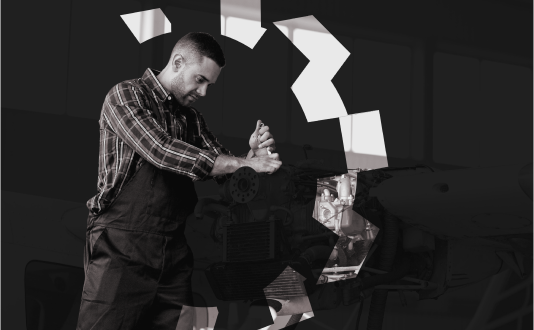
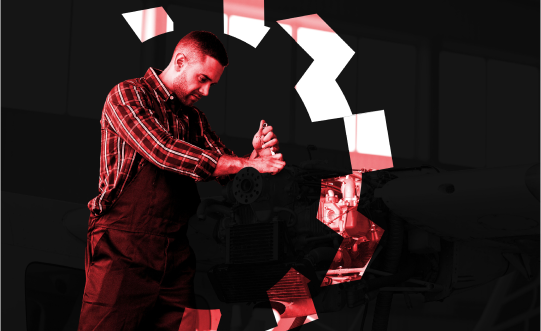
fixed first land

diff --git a/mohovik/index.html b/mohovik/index.html
@@ -79,9 +79,9 @@
 
 	<section class="firstscroll">
 		<div class="globalCont">
-			<div class="firstscroll__subTitle">
+			<!-- <div class="firstscroll__subTitle">
 				<p>Маховик — массивное вращающееся колесо, использующееся в качестве накопителя кинетической энергии.</p>
-			</div>
+			</div> -->
 			<!-- /.subTitle -->
 			<div class="firstscroll__title">
 				<h1>Ремонт спецтехники любой сложности</h1>
@@ -108,10 +108,10 @@
 					</div>
 					<!-- /.about__cont-items-title -->
 					<div class="about__cont-items-img">
-						<img src="img/a01.png" alt="Ремонт" data-aos="zoom-in" data-aos-duration="1500">
+						<img src="img/a01.png" alt="Ремонт" >
 					</div>
 					<!-- /.about__cont-items-img -->
-					<div class="about__cont-items-desc">
+					<div class="about__cont-items-desc" data-aos="zoom-in" data-aos-duration="1500">
 						<p>Качественный ремонт с гарантией карьерной техники и спецтехники Качественный ремонт с гарантией карьерной техники и спецтехники Качественный ремонт с гарантией карьерной техники и спецтехники...</p>
 					</div>
 					<!-- /.about__cont-items-desc -->
@@ -127,10 +127,10 @@
 					</div>
 					<!-- /.about__cont-items-title -->
 					<div class="about__cont-items-img">
-						<img src="img/a02.png" alt="Ремонт" data-aos="zoom-in" data-aos-duration="1500">
+						<img src="img/a02.png" alt="Ремонт" >
 					</div>
 					<!-- /.about__cont-items-img -->
-					<div class="about__cont-items-desc">
+					<div class="about__cont-items-desc" data-aos="zoom-in" data-aos-duration="1500">
 						<p>Компания “Маховик” реализует технику для специальных и карьерных работ. Техника от ведущих производителей, положительно зарекомендовавшая себя в течение многих лет на мировом рынке...</p>
 					</div>
 					<!-- /.about__cont-items-desc -->
@@ -146,10 +146,10 @@
 					</div>
 					<!-- /.about__cont-items-title -->
 					<div class="about__cont-items-img">
-						<img src="img/a03.png" alt="Ремонт" data-aos="zoom-in" data-aos-duration="1500">
+						<img src="img/a03.png" alt="Ремонт">
 					</div>
 					<!-- /.about__cont-items-img -->
-					<div class="about__cont-items-desc">
+					<div class="about__cont-items-desc" data-aos="zoom-in" data-aos-duration="1500">
 						<p>Склад запчастей нашей компании постоянно пополняется и обновляется. Наши специалисты постоянно “держат руку на пульсе” и поэтому качество наших деталей и запасных частей никогда не подведёт и не разочарует... </p>
 					</div>
 					<!-- /.about__cont-items-desc -->
@@ -169,6 +169,7 @@
 		<div class="whay__title">
 			<div class="whay__title-cont">
 				<div class="whay__title-cont-bgFilter"></div>
+				<img src="img/prot.png" alt="">
 				<!-- /.bgFilter -->
 			</div>
 			<!-- /.contww -->
@@ -218,7 +219,7 @@
 		<div class="globalCont">
 			<div class="prod__row">
 				<div class="prod__row-items">
-					<img src="img/pr01.png" alt="" data-aos="zoom-in" data-aos-duration="1500">
+					<img src="img/pr01.png" alt="" >
 				</div>
 				<!-- /.prod__row-items -->
 				<div class="prod__row-items">
@@ -237,14 +238,14 @@
 				</div>
 				<!-- /.prod__row-items -->
 				<div class="prod__row-items order-1 order-lg-2">
-					<img src="img/pr02.png" alt="" data-aos="zoom-in" data-aos-duration="1500">
+					<img src="img/pr02.png" alt="" data-aos="zoom-in" data-aos-duration="1000">
 				</div>
 				<!-- /.prod__row-items --> 
 			</div> 
 			<!-- /.prod__row -->
 			<div class="prod__row">
 				<div class="prod__row-items">
-					<img src="img/pr03.png" alt="" data-aos="zoom-in" data-aos-duration="1500">
+					<img src="img/pr03.png" alt="" data-aos="zoom-in" data-aos-duration="1000">
 				</div>
 				<!-- /.prod__row-items -->
 				<div class="prod__row-items">
@@ -272,12 +273,30 @@
 		<div class="globalCont">
 			<div class="exp__cont">
 				<div class="exp__cont-items">
-					<img src="img/exp01.png" alt="e">
+					<a id="galleryOne" href=""><img src="img/exp01.png" alt="e"></a>
+					<div class="d-none" id="forGalleryOne">
+						<img src="img/exp01.png" alt="e">
+						<img src="img/exp01.png" alt="e">
+						<img src="img/exp01.png" alt="e">
+						<img src="img/exp01.png" alt="e">
+						<img src="img/exp01.png" alt="e">
+					</div>
 				</div>
 				<!-- /.exp__cont-items -->
 				<div class="exp__cont-items">
-					<img src="img/exp02.png" alt="e">
-					<img src="img/exp03.png" alt="e">
+					<a id="galleryTwo" href=""><img src="img/exp02.png" alt="e"></a>
+					<div class="d-none" id="forGalleryTwo">
+						<img src="img/exp02.png" alt="e">
+						<img src="img/exp02.png" alt="e">
+						<img src="img/exp02.png" alt="e">
+						<img src="img/exp02.png" alt="e">
+					</div>
+					<a id="galleryThree" href=""><img src="img/exp03.png" alt="e"></a>
+					<div class="d-none" id="forGalleryThree">
+						<img src="img/exp03.png" alt="e">
+						<img src="img/exp03.png" alt="e">
+						<img src="img/exp03.png" alt="e">
+					</div>
 				</div>
 				<!-- /.exp__cont-items -->
 			</div>
@@ -301,19 +320,19 @@
 			<a href="tel:+380673104442">+38 (067) 310-44-42 (Viber)</a>
 			<a href="tel:+380671965440">+38 (067) 196-54-40 (Viber)</a>
 			<a href="tel:+380443343308">+38 (044) 334-33-08</a>
-			<a href="mailtoazmahovyk1@gmail.com">azmahovyk1@gmail.com</a>
+			<a href="mailto:azmahovyk1@gmail.com">azmahovyk1@gmail.com</a>
 			<p>Украина, Киевская область г. Бровары, ул. Янченко, 2.</p>
 			<div class="contacts__cont-social">
 				<a href="https://www.facebook.com/azmahovyk/" target="_blank"><img src="img/fb.png" alt="fb"></a>
 				<a href="https://www.instagram.com/mahovyk/?igshid=a4r49tq891np" target="_blank"><img src="img/in.png" alt="in"></a>
-				<a href="#" target="_blank"><img src="img/yb.png" alt="yb"></a>
+				<a href="https://www.youtube.com/channel/UCMyZ-p7QSmYOCpxm-FCBSgA?view_as=subscriber" target="_blank"><img src="img/yb.png" alt="yb"></a>
 			</div>
 			<!-- /.contacts__cont-social -->
 			<div class="contacts__cont-map">
 				<iframe src="https://www.google.com/maps/embed?pb=!1m18!1m12!1m3!1d2538.3113086665066!2d30.746581715732905!3d50.49116357948098!2m3!1f0!2f0!3f0!3m2!1i1024!2i768!4f13.1!3m3!1m2!1s0x40d4dbca999e7db1%3A0x9101bc8c8af1c55a!2z0LLRg9C70LjRhtGPINCU0LzQuNGC0YDQsCDQr9C90YfQtdC90LrQsCwgMiwg0JHRgNC-0LLQsNGA0LgsINCa0LjRl9Cy0YHRjNC60LAg0L7QsdC7LiwgMDc0MDA!5e0!3m2!1suk!2sua!4v1602096643786!5m2!1suk!2sua" frameborder="0" style="border:0;" allowfullscreen="" aria-hidden="false" tabindex="0"></iframe>
 			</div>
 			<!-- /.contacts__cont-map -->
-			<a href="#mpopup-form" class="mpopup mainBtnQv" onclick="setNameScroll('Заказать звонок - > Контакты','Введите данные и мы свяжемся с Вами в течение 30 минут');">Заказать звонок</a>
+			<a href="#mpopup-form" class="mpopup mainBtnC" onclick="setNameScroll('Заказать звонок - > Контакты','Введите данные и мы свяжемся с Вами в течение 30 минут');">Заказать звонок</a>
 		</div>
 		<!-- /.contacts__cont -->
 	</section>

diff --git a/mohovik/css/main.css b/mohovik/css/main.css
@@ -65,19 +65,19 @@ section {
   overflow: hidden;
   position: relative;
   z-index: 2;
-  margin-top: -100px;
-  height: 200px;
+  margin-top: -50px;
+  height: 100px;
 }
 
 .bllurCont__wrap {
   top: 10%;
   left: -15%;
   position: absolute;
-  height: 80%;
+  height: 60%;
   width: 130%;
   background: #fff;
-  -webkit-filter: blur(20px);
-          filter: blur(20px);
+  -webkit-filter: blur(10px);
+          filter: blur(10px);
 }
 
 .bllurImg {
@@ -452,8 +452,8 @@ section {
 .firstscroll {
   padding: 0;
   min-height: 90vh;
-  background: url("../img/mbg.jpg");
-  background-position: center center;
+  background: url("../img/mb.png");
+  background-position: top 69px left;
   background-repeat: no-repeat;
   background-size: 100% 100%;
   position: relative;
@@ -564,7 +564,7 @@ section {
 .about {
   padding-top: 0;
   z-index: 4;
-  padding-bottom: 70px;
+  padding-bottom: 20px;
 }
 
 .about__cont {
@@ -607,6 +607,10 @@ section {
 }
 
 .about__cont-items-img img {
+  -webkit-transition: .3s;
+  transition: .3s;
+  -webkit-filter: grayscale(100%);
+          filter: grayscale(100%);
   max-width: 100%;
   height: auto;
 }
@@ -633,6 +637,13 @@ section {
           box-shadow: 1px 4px 10px rgba(0, 0, 0, 0.25);
   -webkit-transform: scale(1.01);
           transform: scale(1.01);
+}
+
+.about__cont-items:hover img {
+  -webkit-transition: .3s;
+  transition: .3s;
+  -webkit-filter: grayscale(0%);
+          filter: grayscale(0%);
 }
 
 @media (max-width: 992px) {
@@ -667,6 +678,7 @@ section {
   position: relative;
   top: -50px;
   height: 100px;
+  z-index: 1;
 }
 
 .whay__title-cont-bgFilter {
@@ -678,6 +690,16 @@ section {
   background: #fff;
   -webkit-filter: blur(10px);
           filter: blur(10px);
+  z-index: -1;
+}
+
+.whay__title-cont img {
+  position: absolute;
+  z-index: 2;
+  top: 50%;
+  -webkit-transform: translateY(-50%);
+          transform: translateY(-50%);
+  left: 0;
 }
 
 .whay__cont {

diff --git a/mohovik/js/plug.js b/mohovik/js/plug.js
@@ -31,6 +31,53 @@ $(document).ready(function(){
 
 AOS.init();
 
+
+const forGalleryOne = document.querySelectorAll('#forGalleryOne img');
+let forGalleryOneItems = [];
+forGalleryOne.forEach(key => {
+  forGalleryOneItems.push({src: key.src});
+});
+
+const forGalleryTwo = document.querySelectorAll('#forGalleryTwo img');
+let forGalleryTwoItems = [];
+forGalleryTwo.forEach(key => {
+  forGalleryTwoItems.push({src: key.src});
+});
+
+const forGalleryThree = document.querySelectorAll('#forGalleryThree img');
+let forGalleryThreeItems = [];
+forGalleryThree.forEach(key => {
+  forGalleryThreeItems.push({src: key.src});
+});
+
+console.log(forGalleryOneItems);
+console.log(forGalleryTwoItems);
+console.log(forGalleryThreeItems);
+
+// Example with single object
+$('#galleryOne').magnificPopup({
+  items: forGalleryOneItems,
+  gallery: {
+    enabled: true
+  },
+  type: 'image' // this is default type
+});
+// Example with single object
+$('#galleryTwo').magnificPopup({
+  items: forGalleryTwoItems,
+  gallery: {
+    enabled: true
+  },
+  type: 'image' // this is default t
+});
+// Example with single object
+$('#galleryThree').magnificPopup({
+  items: forGalleryThreeItems,
+  gallery: {
+    enabled: true
+  },
+  type: 'image' // this is default type
+});
 // $(document).ready(function() {
 // 	$('.popup-youtube').magnificPopup({
 // 		type: 'iframe',

diff --git a/mohovik/sass/_about.sass b/mohovik/sass/_about.sass
@@ -1,7 +1,7 @@
 .about
   padding-top: 0
   z-index: 4
-  padding-bottom: 70px
+  padding-bottom: 20px
   &__cont
     display: flex
     justify-content: space-between
@@ -25,6 +25,8 @@
       &-img
         margin-bottom: 20px
         img
+          transition: .3s
+          filter: grayscale(100%)
           max-width: 100%
           height: auto
       &-desc
@@ -40,5 +42,8 @@
         transition: .3s
         box-shadow: 1px 4px 10px rgba(0, 0, 0, 0.25)
         transform: scale(1.01)
+        img
+          transition: .3s
+          filter: grayscale(0%)
   @media(max-width: 992px)
     display: none

diff --git a/mohovik/sass/_whay.sass b/mohovik/sass/_whay.sass
@@ -18,6 +18,7 @@
       position: relative
       top: -50px
       height: 100px
+      z-index: 1
       &-bgFilter
         top: 10%
         left: -15%
@@ -26,7 +27,13 @@
         width: 130%
         background: $main_white
         filter: blur(10px)
-        
+        z-index: -1
+      img
+        position: absolute
+        z-index: 2
+        top: 50%
+        transform: translateY(-50%)
+        left: 0
   &__cont
     overflow: hidden
     display: flex

diff --git a/mohovik/sass/_global.sass b/mohovik/sass/_global.sass
@@ -44,16 +44,16 @@ section
 	overflow: hidden
 	position: relative
 	z-index: 2
-	margin-top: -100px
-	height: 200px
+	margin-top: -50px
+	height: 100px
 	&__wrap
 		top: 10%
 		left: -15%
 		position: absolute
-		height: 80%
+		height: 60%
 		width: 130%
 		background: $main_white
-		filter: blur(20px)
+		filter: blur(10px)
 	
 
 .bllurImg

diff --git a/mohovik/sass/_firstscroll.sass b/mohovik/sass/_firstscroll.sass
@@ -1,8 +1,8 @@
 .firstscroll
   padding: 0
   min-height: 90vh
-  background: url('../img/mbg.jpg')
-  background-position: center center
+  background: url('../img/mb.png')
+  background-position: top 69px left
   background-repeat: no-repeat
   background-size: 100% 100%
   position: relative
